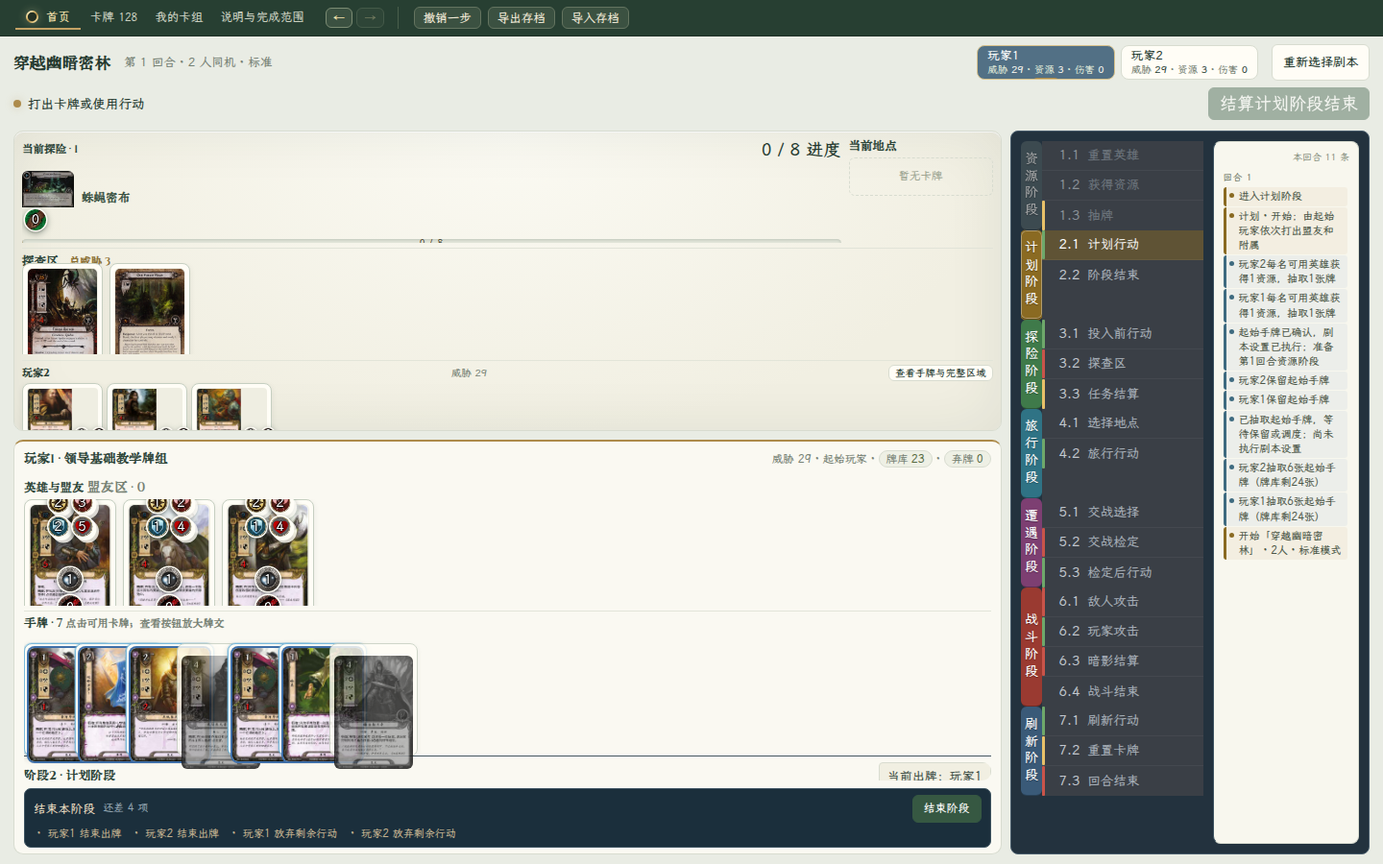
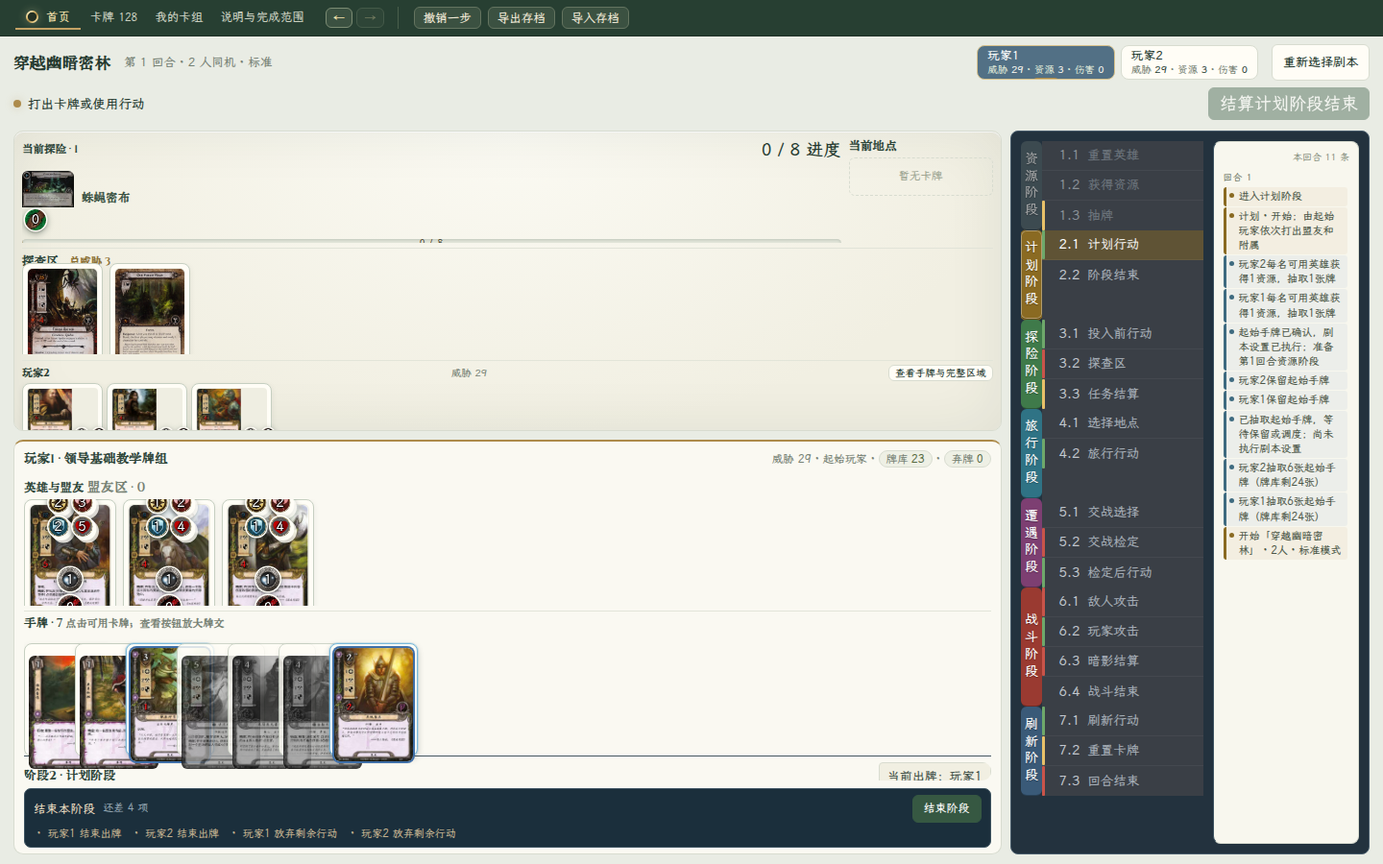
v0.15.58 付不起的手牌置灰：shortfall/costOf 提供 accurate affordable，界面不再靠 reason 正则猜

Changed region(s): [[0.0, 0.7467, 0.3125, 0.9022]]

diff --git a/index.html b/index.html
@@ -5756,11 +5756,33 @@ const PlanningRulesFactory=(H)=>{
    default:throw Error(['01034'].includes(code)?'此牌是战斗行动，计划阶段不能使用': ['01065','01066'].includes(code)?'此牌是探险行动，计划阶段不能使用':'当前没有该响应牌所要求的触发窗口');
   }return f;
  }
- function playSpec(s,pid,uid,params={}){let r={legal:false,fields:[],reason:''};try{const pl=free(s),{p,x,m}=sourceHand(s,pid,uid);r.meta=m;r.instance=x;if(m.type!=='event'){need(s.phase===1,'盟友和附属仅可在计划阶段正常打出');need(active(s)===pid,'仅当前计划玩家可以从手牌打出盟友或附属');need(unique(s,m),'场上已有同名独特牌');if(m.type==='ally'&&[123,124].includes(s.quest))need(s.alliesPlayed?.round!==s.round||s.alliesPlayed.count<1,'此剧本前两阶段全队每回合最多打出1名盟友');if(m.type==='attachment')r.fields=[fieldsForTargets(s,'target','附着目标',attachmentTargets(s,m))];}
-   else {r.timing=requireEventWindow(s,m.code);r.fields=actionFields(s,pid,m.code,params);}
+ /* shortfall(s,pid,sphere,cost,three)：手上资源够不够打出这张牌，不够时返回还差多少。
+     只回答「钱够不够」这一个问题，不碰时机、目标、独特性——那些由 playSpec 自己的断言负责。
+     界面用它把「资源不足」的牌置灰，哪怕此刻还轮不到你出牌（别人的计划回合、探险阶段的行动窗口），
+     否则玩家会看到一手亮着的牌，点下去才发现付不起。 */
+ function shortfall(s,pid,sphere,cost,three){
+  if(!Number.isInteger(cost)||cost<0)return 0;
+  const ps=pools(s,pid,sphere);
+  if(sphere!=='neutral'&&!ps.some(p=>p.eligible))return cost||1;   /* 领域对不上，等于一分钱也付不了 */
+  let left=cost;
+  for(const p of ps.filter(p=>p.eligible)){const n=three?Math.min(left,p.resources,1):Math.min(left,p.resources);left-=n;}
+  return Math.max(0,left);
+ }
+ /* costOf(s,pid,m,params,fields)：这张牌这一手到底要付多少（01051 按弃牌堆里那张的费用、01067 按选的 X）。 */
+ function costOf(s,m,params,fields){let cost=m.cost;
+  if(m.code==='01051'){const f=(fields||[])[0],value=params.target??params.ally??f?.options[0]?.value;const c=alive(s).flatMap(p=>p.playerDiscard).find(c=>same(c.uid,value));cost=c?data(s,c).cost:null;}
+  if(m.code==='01067')cost=num(params.x??(fields||[]).find(f=>f.key==='x')?.options[0]?.value);
+  return cost;
+ }
+ function playSpec(s,pid,uid,params={}){let r={legal:false,fields:[],reason:'',affordable:true};try{const pl=free(s),{p,x,m}=sourceHand(s,pid,uid);r.meta=m;r.instance=x;
+   /* 先算这张牌得付多少、手上差多少：即便后面因为时机/目标判不合法，界面也能把「其实是没钱」说清楚。 */
+   if(m.type!=='event'&&m.type==='attachment')r.fields=[fieldsForTargets(s,'target','附着目标',attachmentTargets(s,m))];
+   r.cost=costOf(s,m,params,r.fields);r.short=shortfall(s,pid,m.sphere,r.cost,m.code==='01036');r.affordable=r.short===0;
+   if(m.type!=='event'){need(s.phase===1,'盟友和附属仅可在计划阶段正常打出');need(active(s)===pid,'仅当前计划玩家可以从手牌打出盟友或附属');need(unique(s,m),'场上已有同名独特牌');if(m.type==='ally'&&[123,124].includes(s.quest))need(s.alliesPlayed?.round!==s.round||s.alliesPlayed.count<1,'此剧本前两阶段全队每回合最多打出1名盟友');}
+   else {r.timing=requireEventWindow(s,m.code);r.fields=actionFields(s,pid,m.code,params);r.cost=costOf(s,m,params,r.fields);r.short=shortfall(s,pid,m.sphere,r.cost,m.code==='01036');r.affordable=r.short===0;}
    need(r.fields.every(f=>f.options.length),'没有符合此牌条件的合法目标');
-   let cost=m.cost;if(m.code==='01051'){const f=r.fields[0],value=params.ally??f.options[0]?.value;const c=alive(s).flatMap(p=>p.playerDiscard).find(c=>same(c.uid,value));cost=c?data(s,c).cost:null;}if(m.code==='01067')cost=num(params.x??r.fields.find(f=>f.key==='x').options[0]?.value);
-   r.payment=payment(s,pid,m.sphere,cost,undefined,m.code==='01036');r.cost=cost;r.legal=true;
+   if(!r.affordable)need(false,'资源不足：还差 '+r.short+' 点'+({leadership:'领导',lore:'学识',spirit:'精神',tactics:'战术'}[m.sphere]||'匹配领域')+'资源');
+   r.payment=payment(s,pid,m.sphere,r.cost,undefined,m.code==='01036');r.legal=true;
   }catch(e){r.reason=e.message;}return r;}
  function checkedPlay(s,pid,uid,params){const r=playSpec(s,pid,uid,params);need(r.legal,r.reason);chosen(r.fields,params);r.payment=payment(s,pid,r.meta.sphere,r.cost,params.payment,r.meta.code==='01036');return r;}
  function removeFrom(a,uid){const i=a.findIndex(c=>same(c.uid,uid));need(i>=0,'牌张已经离开原区域');return a.splice(i,1)[0];}
@@ -5918,7 +5940,7 @@ const PlanningRulesFactory=(H)=>{
  function applyEnd(s,e){s.delayedEffects=s.delayedEffects.filter(x=>x.id!==e.id);if(find(s,e.uid)?.kind==='ally')leaveAlly(s,e.uid,e.kind==='beorn'?'playerDeck':'hand');}
  function complete(s){s.phaseModifiers=(s.phaseModifiers||[]).filter(m=>m.round!==s.round||m.phase!==s.phase);s.phasePermissions=(s.phasePermissions||[]).filter(m=>m.round!==s.round||m.phase!==s.phase);if(s.phase===6){context(s).closing=false;context(s).step='roundEnd';log(s,'阶段结束效果已完成，开始回合结束效果');return;}context(s).completed=true;context(s).closing=false;if([3,4,5].includes(s.phase)){context(s).step='completed';context(s).encounterModifiers=[];context(s).ignoredThreat=[];s.phaseThreat=0;}if(s.phase===2){context(s).step='completed';context(s).encounterModifiers=[];context(s).ignoredThreat=[];for(const c of chars(s))c.state.committed=false;s.phaseThreat=0;for(const c of s.staging)delete c.bonus;}log(s,'本阶段结束效果结算完成');}
  function finish(s){const pl=plan(s);need(!pl.halted,pl.halted);need(!pl.queue.length,'请先结算响应');if(!pl.closing){if(s.phase===6)need(pl.step==='action','刷新框架尚未完成');else if(s.phase===5)need(['endAction','ending'].includes(pl.step),'战斗尚未结束');else if(s.phase===4)need(pl.step==='afterChecks','交战检定尚未结束');else if(s.phase===3)need(pl.step==='action','旅行尚未结算');else if(s.phase===2)need(pl.step==='afterResult','探险尚未结算');else need(active(s)===null,'请先由每位玩家结束计划出牌步骤');need(alive(s).every(p=>pl.finalPasses.includes(p.id)),'请让每位玩家确认放弃剩余行动');pl.closing=true;pl.endEffects=(s.delayedEffects||[]).filter(e=>e.round===s.round&&e.phase===s.phase);}pump(s);return pl.completed;}
- return {destroyCharacter,discardAttachment,leaveAlly,engageEnemy,icons,checkedPlay,damageCharacter,damageEnemy,locationProgress,modifier,changeThreat,queue,pump,spend,draw,putAlly,context,eventTiming,window,start,active,playSpec,play,abilitySpec,activate,abilities,choiceSpec,resolveChoice,endTurn,passAction,finish,chars,attaches,enemies,locations,stats,find,data,payment,restrictedOn};
+ return {destroyCharacter,discardAttachment,leaveAlly,engageEnemy,icons,checkedPlay,damageCharacter,damageEnemy,locationProgress,modifier,changeThreat,queue,pump,spend,draw,putAlly,context,eventTiming,window,start,active,playSpec,play,abilitySpec,activate,abilities,choiceSpec,resolveChoice,endTurn,passAction,finish,chars,attaches,enemies,locations,stats,find,data,payment,restrictedOn,shortfall};
 };
 if(typeof module!=='undefined')module.exports=PlanningRulesFactory;
 
@@ -9992,7 +10014,7 @@ const WindowUI=(()=>{
 </script><script src="phase-log.js"></script><script>
 /* Tabletop view: UI drafts never pay, exhaust, reveal, or bypass phase validation. */
 /* 界面版本徽标唯一来源：须与 CHANGELOG.md 最新条目标题一致（planning-dom-tests 有校验）。 */
-const APP_VERSION='v0.15.57';
+const APP_VERSION='v0.15.58';
 const DesktopUI=(()=>{
  const E=ScenarioEngine,R=E.planning,Q=E.questing,C=E.combat,esc=x=>String(x??'').replace(/[&<>"']/g,c=>({'&':'&amp;','<':'&lt;','>':'&gt;','"':'&quot;',"'":'&#39;'}[c]));
  let combatDraft={key:'',target:null,ids:[]},draftState=null;
@@ -10160,10 +10182,13 @@ const DesktopUI=(()=>{
   if(!m)draft(s,null);
   const others=s.players.filter(x=>x.id!==p.id).map(o=>`<section class="other-player"><div class="zone-heading"><h3>${esc(o.name)}${s.first===o.id?' · 起始玩家':''}</h3><span>威胁 ${o.threat}${o.eliminated?' · 已淘汰':''}</span>${b('查看手牌与完整区域','view',`data-player="${o.id}"`)}</div><div class="table-card-row peer-cards">${playerChars(s,o).map(c=>character(s,c,m)).join('')}${o.engaged.map(c=>encounter(s,c,'engaged',m)).join('')}</div></section>`).join('');
   const hand=p.hand.map(c=>{const meta=R.data(s,{...c,owner:p.id}),sp=R.playSpec(s,p.id,c.uid);
-   /* 费用检测：时机/目标合法但匹配领域的资源不足 → 灰化禁用，仍保留悬停放大与查看（探针挂在 article 上，绕过 disabled button 不派发 hover 的限制）。 */
-   const unaff=!sp.legal&&/资源不足/.test(sp.reason||'');
+   /* 置灰判据用 playSpec 的 affordable：只要手上付不起就灰掉，不管此刻轮不轮得到你出牌。
+      以前靠正则匹配 reason 里的「资源不足」，可那时 playSpec 往往先被时机断言拦掉
+      （「仅当前计划玩家可以…」「当前不是计划或探险阶段」），于是一手牌全亮着，点下去才发现没钱。 */
+   const unaff=sp.affordable===false;
+   const reason=unaff?`资源不足：还差 ${sp.short} 点`:(sp.legal?'点击选择目标与费用':sp.reason);
    const probe=unaff?(()=>{const rec=ImageLibrary.by[c.code],url=rec?ImageLibrary.safeUrl(rec.faces?.B||rec.imageUrl):null;return url?` data-hover-src="${esc(url)}" data-hover-shape="tall"`:'';})():'';
-   return `<article class="table-card hand-card ${sp.legal?'selectable':''}${unaff?' unaffordable':''}"${probe}><button class="card-face" data-action="planning" data-plan="play" data-player="${p.id}" data-uid="${c.uid}" ${sp.legal?'':'disabled'} aria-label="使用${esc(meta.nameZh)}">${art(c.code)}</button><div class="table-card-caption"><b>${esc(meta.nameZh)}</b><span>费用 ${meta.cost??'—'} · ${esc(meta.sphereName||meta.sphere)}</span></div>${inspect(c.code)}<span class="card-legality">${esc(sp.legal?'点击选择目标与费用':sp.reason)}</span></article>`;}).join('');
+   return `<article class="table-card hand-card ${sp.legal?'selectable':''}${unaff?' unaffordable':''}"${probe}><button class="card-face" data-action="planning" data-plan="play" data-player="${p.id}" data-uid="${c.uid}" ${sp.legal?'':'disabled'} aria-label="使用${esc(meta.nameZh)}">${art(c.code)}</button><div class="table-card-caption"><b>${esc(meta.nameZh)}</b><span>费用 ${meta.cost??'—'} · ${esc(meta.sphereName||meta.sphere)}</span></div>${inspect(c.code)}<span class="card-legality">${esc(reason)}</span></article>`;}).join('');
   /* 玩家状态条：BGA 式汇总每位玩家的威胁／资源／伤害，点按即切换查看（复用 view 动作）。 */
  const tabStats=o=>{const res=o.heroStates?o.heroStates.reduce((n,h)=>n+h.resources,0):0,dmg=o.heroStates?o.heroStates.reduce((n,h)=>n+(h.damage||0),0):0;
   return `<span class="tab-stats">威胁 <b>${o.threat}</b> · 资源 <b>${res}</b> · 伤害 <b>${dmg}</b></span>${s.first===o.id?'<span class="first-mark">起始</span>':''}${o.eliminated?'<span class="elim-mark">淘汰</span>':''}`;};

diff --git a/planning-engine.js b/planning-engine.js
@@ -111,11 +111,33 @@ const PlanningRulesFactory=(H)=>{
    default:throw Error(['01034'].includes(code)?'此牌是战斗行动，计划阶段不能使用': ['01065','01066'].includes(code)?'此牌是探险行动，计划阶段不能使用':'当前没有该响应牌所要求的触发窗口');
   }return f;
  }
- function playSpec(s,pid,uid,params={}){let r={legal:false,fields:[],reason:''};try{const pl=free(s),{p,x,m}=sourceHand(s,pid,uid);r.meta=m;r.instance=x;if(m.type!=='event'){need(s.phase===1,'盟友和附属仅可在计划阶段正常打出');need(active(s)===pid,'仅当前计划玩家可以从手牌打出盟友或附属');need(unique(s,m),'场上已有同名独特牌');if(m.type==='ally'&&[123,124].includes(s.quest))need(s.alliesPlayed?.round!==s.round||s.alliesPlayed.count<1,'此剧本前两阶段全队每回合最多打出1名盟友');if(m.type==='attachment')r.fields=[fieldsForTargets(s,'target','附着目标',attachmentTargets(s,m))];}
-   else {r.timing=requireEventWindow(s,m.code);r.fields=actionFields(s,pid,m.code,params);}
+ /* shortfall(s,pid,sphere,cost,three)：手上资源够不够打出这张牌，不够时返回还差多少。
+     只回答「钱够不够」这一个问题，不碰时机、目标、独特性——那些由 playSpec 自己的断言负责。
+     界面用它把「资源不足」的牌置灰，哪怕此刻还轮不到你出牌（别人的计划回合、探险阶段的行动窗口），
+     否则玩家会看到一手亮着的牌，点下去才发现付不起。 */
+ function shortfall(s,pid,sphere,cost,three){
+  if(!Number.isInteger(cost)||cost<0)return 0;
+  const ps=pools(s,pid,sphere);
+  if(sphere!=='neutral'&&!ps.some(p=>p.eligible))return cost||1;   /* 领域对不上，等于一分钱也付不了 */
+  let left=cost;
+  for(const p of ps.filter(p=>p.eligible)){const n=three?Math.min(left,p.resources,1):Math.min(left,p.resources);left-=n;}
+  return Math.max(0,left);
+ }
+ /* costOf(s,pid,m,params,fields)：这张牌这一手到底要付多少（01051 按弃牌堆里那张的费用、01067 按选的 X）。 */
+ function costOf(s,m,params,fields){let cost=m.cost;
+  if(m.code==='01051'){const f=(fields||[])[0],value=params.target??params.ally??f?.options[0]?.value;const c=alive(s).flatMap(p=>p.playerDiscard).find(c=>same(c.uid,value));cost=c?data(s,c).cost:null;}
+  if(m.code==='01067')cost=num(params.x??(fields||[]).find(f=>f.key==='x')?.options[0]?.value);
+  return cost;
+ }
+ function playSpec(s,pid,uid,params={}){let r={legal:false,fields:[],reason:'',affordable:true};try{const pl=free(s),{p,x,m}=sourceHand(s,pid,uid);r.meta=m;r.instance=x;
+   /* 先算这张牌得付多少、手上差多少：即便后面因为时机/目标判不合法，界面也能把「其实是没钱」说清楚。 */
+   if(m.type!=='event'&&m.type==='attachment')r.fields=[fieldsForTargets(s,'target','附着目标',attachmentTargets(s,m))];
+   r.cost=costOf(s,m,params,r.fields);r.short=shortfall(s,pid,m.sphere,r.cost,m.code==='01036');r.affordable=r.short===0;
+   if(m.type!=='event'){need(s.phase===1,'盟友和附属仅可在计划阶段正常打出');need(active(s)===pid,'仅当前计划玩家可以从手牌打出盟友或附属');need(unique(s,m),'场上已有同名独特牌');if(m.type==='ally'&&[123,124].includes(s.quest))need(s.alliesPlayed?.round!==s.round||s.alliesPlayed.count<1,'此剧本前两阶段全队每回合最多打出1名盟友');}
+   else {r.timing=requireEventWindow(s,m.code);r.fields=actionFields(s,pid,m.code,params);r.cost=costOf(s,m,params,r.fields);r.short=shortfall(s,pid,m.sphere,r.cost,m.code==='01036');r.affordable=r.short===0;}
    need(r.fields.every(f=>f.options.length),'没有符合此牌条件的合法目标');
-   let cost=m.cost;if(m.code==='01051'){const f=r.fields[0],value=params.ally??f.options[0]?.value;const c=alive(s).flatMap(p=>p.playerDiscard).find(c=>same(c.uid,value));cost=c?data(s,c).cost:null;}if(m.code==='01067')cost=num(params.x??r.fields.find(f=>f.key==='x').options[0]?.value);
-   r.payment=payment(s,pid,m.sphere,cost,undefined,m.code==='01036');r.cost=cost;r.legal=true;
+   if(!r.affordable)need(false,'资源不足：还差 '+r.short+' 点'+({leadership:'领导',lore:'学识',spirit:'精神',tactics:'战术'}[m.sphere]||'匹配领域')+'资源');
+   r.payment=payment(s,pid,m.sphere,r.cost,undefined,m.code==='01036');r.legal=true;
   }catch(e){r.reason=e.message;}return r;}
  function checkedPlay(s,pid,uid,params){const r=playSpec(s,pid,uid,params);need(r.legal,r.reason);chosen(r.fields,params);r.payment=payment(s,pid,r.meta.sphere,r.cost,params.payment,r.meta.code==='01036');return r;}
  function removeFrom(a,uid){const i=a.findIndex(c=>same(c.uid,uid));need(i>=0,'牌张已经离开原区域');return a.splice(i,1)[0];}
@@ -273,6 +295,6 @@ const PlanningRulesFactory=(H)=>{
  function applyEnd(s,e){s.delayedEffects=s.delayedEffects.filter(x=>x.id!==e.id);if(find(s,e.uid)?.kind==='ally')leaveAlly(s,e.uid,e.kind==='beorn'?'playerDeck':'hand');}
  function complete(s){s.phaseModifiers=(s.phaseModifiers||[]).filter(m=>m.round!==s.round||m.phase!==s.phase);s.phasePermissions=(s.phasePermissions||[]).filter(m=>m.round!==s.round||m.phase!==s.phase);if(s.phase===6){context(s).closing=false;context(s).step='roundEnd';log(s,'阶段结束效果已完成，开始回合结束效果');return;}context(s).completed=true;context(s).closing=false;if([3,4,5].includes(s.phase)){context(s).step='completed';context(s).encounterModifiers=[];context(s).ignoredThreat=[];s.phaseThreat=0;}if(s.phase===2){context(s).step='completed';context(s).encounterModifiers=[];context(s).ignoredThreat=[];for(const c of chars(s))c.state.committed=false;s.phaseThreat=0;for(const c of s.staging)delete c.bonus;}log(s,'本阶段结束效果结算完成');}
  function finish(s){const pl=plan(s);need(!pl.halted,pl.halted);need(!pl.queue.length,'请先结算响应');if(!pl.closing){if(s.phase===6)need(pl.step==='action','刷新框架尚未完成');else if(s.phase===5)need(['endAction','ending'].includes(pl.step),'战斗尚未结束');else if(s.phase===4)need(pl.step==='afterChecks','交战检定尚未结束');else if(s.phase===3)need(pl.step==='action','旅行尚未结算');else if(s.phase===2)need(pl.step==='afterResult','探险尚未结算');else need(active(s)===null,'请先由每位玩家结束计划出牌步骤');need(alive(s).every(p=>pl.finalPasses.includes(p.id)),'请让每位玩家确认放弃剩余行动');pl.closing=true;pl.endEffects=(s.delayedEffects||[]).filter(e=>e.round===s.round&&e.phase===s.phase);}pump(s);return pl.completed;}
- return {destroyCharacter,discardAttachment,leaveAlly,engageEnemy,icons,checkedPlay,damageCharacter,damageEnemy,locationProgress,modifier,changeThreat,queue,pump,spend,draw,putAlly,context,eventTiming,window,start,active,playSpec,play,abilitySpec,activate,abilities,choiceSpec,resolveChoice,endTurn,passAction,finish,chars,attaches,enemies,locations,stats,find,data,payment,restrictedOn};
+ return {destroyCharacter,discardAttachment,leaveAlly,engageEnemy,icons,checkedPlay,damageCharacter,damageEnemy,locationProgress,modifier,changeThreat,queue,pump,spend,draw,putAlly,context,eventTiming,window,start,active,playSpec,play,abilitySpec,activate,abilities,choiceSpec,resolveChoice,endTurn,passAction,finish,chars,attaches,enemies,locations,stats,find,data,payment,restrictedOn,shortfall};
 };
 if(typeof module!=='undefined')module.exports=PlanningRulesFactory;

diff --git a/desktop-ui.js b/desktop-ui.js
@@ -1,6 +1,6 @@
 /* Tabletop view: UI drafts never pay, exhaust, reveal, or bypass phase validation. */
 /* 界面版本徽标唯一来源：须与 CHANGELOG.md 最新条目标题一致（planning-dom-tests 有校验）。 */
-const APP_VERSION='v0.15.57';
+const APP_VERSION='v0.15.58';
 const DesktopUI=(()=>{
  const E=ScenarioEngine,R=E.planning,Q=E.questing,C=E.combat,esc=x=>String(x??'').replace(/[&<>"']/g,c=>({'&':'&amp;','<':'&lt;','>':'&gt;','"':'&quot;',"'":'&#39;'}[c]));
  let combatDraft={key:'',target:null,ids:[]},draftState=null;
@@ -168,10 +168,13 @@ const DesktopUI=(()=>{
   if(!m)draft(s,null);
   const others=s.players.filter(x=>x.id!==p.id).map(o=>`<section class="other-player"><div class="zone-heading"><h3>${esc(o.name)}${s.first===o.id?' · 起始玩家':''}</h3><span>威胁 ${o.threat}${o.eliminated?' · 已淘汰':''}</span>${b('查看手牌与完整区域','view',`data-player="${o.id}"`)}</div><div class="table-card-row peer-cards">${playerChars(s,o).map(c=>character(s,c,m)).join('')}${o.engaged.map(c=>encounter(s,c,'engaged',m)).join('')}</div></section>`).join('');
   const hand=p.hand.map(c=>{const meta=R.data(s,{...c,owner:p.id}),sp=R.playSpec(s,p.id,c.uid);
-   /* 费用检测：时机/目标合法但匹配领域的资源不足 → 灰化禁用，仍保留悬停放大与查看（探针挂在 article 上，绕过 disabled button 不派发 hover 的限制）。 */
-   const unaff=!sp.legal&&/资源不足/.test(sp.reason||'');
+   /* 置灰判据用 playSpec 的 affordable：只要手上付不起就灰掉，不管此刻轮不轮得到你出牌。
+      以前靠正则匹配 reason 里的「资源不足」，可那时 playSpec 往往先被时机断言拦掉
+      （「仅当前计划玩家可以…」「当前不是计划或探险阶段」），于是一手牌全亮着，点下去才发现没钱。 */
+   const unaff=sp.affordable===false;
+   const reason=unaff?`资源不足：还差 ${sp.short} 点`:(sp.legal?'点击选择目标与费用':sp.reason);
    const probe=unaff?(()=>{const rec=ImageLibrary.by[c.code],url=rec?ImageLibrary.safeUrl(rec.faces?.B||rec.imageUrl):null;return url?` data-hover-src="${esc(url)}" data-hover-shape="tall"`:'';})():'';
-   return `<article class="table-card hand-card ${sp.legal?'selectable':''}${unaff?' unaffordable':''}"${probe}><button class="card-face" data-action="planning" data-plan="play" data-player="${p.id}" data-uid="${c.uid}" ${sp.legal?'':'disabled'} aria-label="使用${esc(meta.nameZh)}">${art(c.code)}</button><div class="table-card-caption"><b>${esc(meta.nameZh)}</b><span>费用 ${meta.cost??'—'} · ${esc(meta.sphereName||meta.sphere)}</span></div>${inspect(c.code)}<span class="card-legality">${esc(sp.legal?'点击选择目标与费用':sp.reason)}</span></article>`;}).join('');
+   return `<article class="table-card hand-card ${sp.legal?'selectable':''}${unaff?' unaffordable':''}"${probe}><button class="card-face" data-action="planning" data-plan="play" data-player="${p.id}" data-uid="${c.uid}" ${sp.legal?'':'disabled'} aria-label="使用${esc(meta.nameZh)}">${art(c.code)}</button><div class="table-card-caption"><b>${esc(meta.nameZh)}</b><span>费用 ${meta.cost??'—'} · ${esc(meta.sphereName||meta.sphere)}</span></div>${inspect(c.code)}<span class="card-legality">${esc(reason)}</span></article>`;}).join('');
   /* 玩家状态条：BGA 式汇总每位玩家的威胁／资源／伤害，点按即切换查看（复用 view 动作）。 */
  const tabStats=o=>{const res=o.heroStates?o.heroStates.reduce((n,h)=>n+h.resources,0):0,dmg=o.heroStates?o.heroStates.reduce((n,h)=>n+(h.damage||0),0):0;
   return `<span class="tab-stats">威胁 <b>${o.threat}</b> · 资源 <b>${res}</b> · 伤害 <b>${dmg}</b></span>${s.first===o.id?'<span class="first-mark">起始</span>':''}${o.eliminated?'<span class="elim-mark">淘汰</span>':''}`;};

diff --git a/CHANGELOG.md b/CHANGELOG.md
@@ -1,3 +1,15 @@
+# v0.15.58 · 付不起的牌就该是灰的：置灰判据不再依赖「此刻轮不轮得到你」（2026-10-25）
+
+- **问题**：资源用光后手牌依然全亮。`desktop-ui.js` 靠 `!sp.legal && /资源不足/.test(sp.reason)` 判断要不要加 `.unaffordable`，可 `playSpec()` 的断言是有顺序的——先查时机（`free()` 里的「请先处理剧本待结算事项」「当前不是玩家行动窗口」）、先查阶段（「盟友和附属仅可在计划阶段正常打出」）、先查身份（「仅当前计划玩家可以从手牌打出盟友或附属」），最后才轮到 `payment()` 抛「匹配领域的资源不足」。所以换玩家、进探险阶段、或行动窗口没打开时，`reason` 里根本不会出现「资源不足」四个字，CSS 类加不上，一手牌全是亮的，点下去才发现付不起。
+- **修法**：把「钱够不够」从 `playSpec()` 里拆成两个纯查询函数，界面直接读结论，不再靠正则猜文案：
+  - `shortfall(s,pid,sphere,cost,three)` — 只回答还差多少点资源（0 = 够）。领域对不上直接按「一分钱也付不了」算。
+  - `costOf(s,m,params,fields)` — 这张牌这一手实际要付多少（01051「挺身战斗」按弃牌堆里那张的费用、01067「甘道夫的搜寻」按选的 X），和 `payment()` 同一口径。
+  - `playSpec()` 的返回值新增 `cost` / `short` / `affordable` 三个字段，且在**所有时机断言之前**就算好，所以无论当前是什么阶段、轮到谁，界面都能拿到准确的「够不够」。
+- **界面**：`unaffordable` 改判 `sp.affordable===false`；牌面说明从笼统的「匹配领域的资源不足」改成带差额的「资源不足：还差 N 点」（阶段自动推进时玩家最需要的就是这个数）。置灰只影响能否点击，`data-hover-src` 探针保留，灰牌照样能悬停放大看牌文。
+- **刻意不做的**：0 费牌（如「共同事业」）在资源清零后依然保持可点——规则上它本来就付得起，灰掉反而是错的。回归断言按 `cost===0` 单独豁免。
+- **回归**：新增 `scripts/check-affordable.cjs`（10 项，all pass）。核心断言不是「灰色数 === 0」而是**界面灰色数与引擎 `affordable===false` 的牌数逐张一致**——建局手牌随机，1 费 2 费牌常常付得起，用绝对数当基线会假失败。另外覆盖：资源清零后除 0 费外全灰且全禁用、灰牌仍可悬停、差额文案正确、切到另一位玩家后按那个人的资源重新判定（不继承上一位的灰色状态）。
+- **验收截图**：`docs/browser-acceptance/v0.15.58-hand-unaffordable.png`。
+
 # v0.15.57 · 阶段该自动就自动：引擎自己判断「本阶段没事可做了」（2026-10-25）
 
 - **问题**：`endPhase()` 里明明写着 `if(s.phase===0&&s.resourceDoneRound!==s.round)resourcePhase(s)`，也就是「资源阶段没有玩家决定，到回合就替玩家收」，但这句挂在「结束阶段」按钮的回调后面，没有任何代码主动调用它。结果：收集资源 + 抽牌这种零决策步骤也要玩家点一下按钮，阶段推进变成了「玩家替引擎判断做完了没有」。
